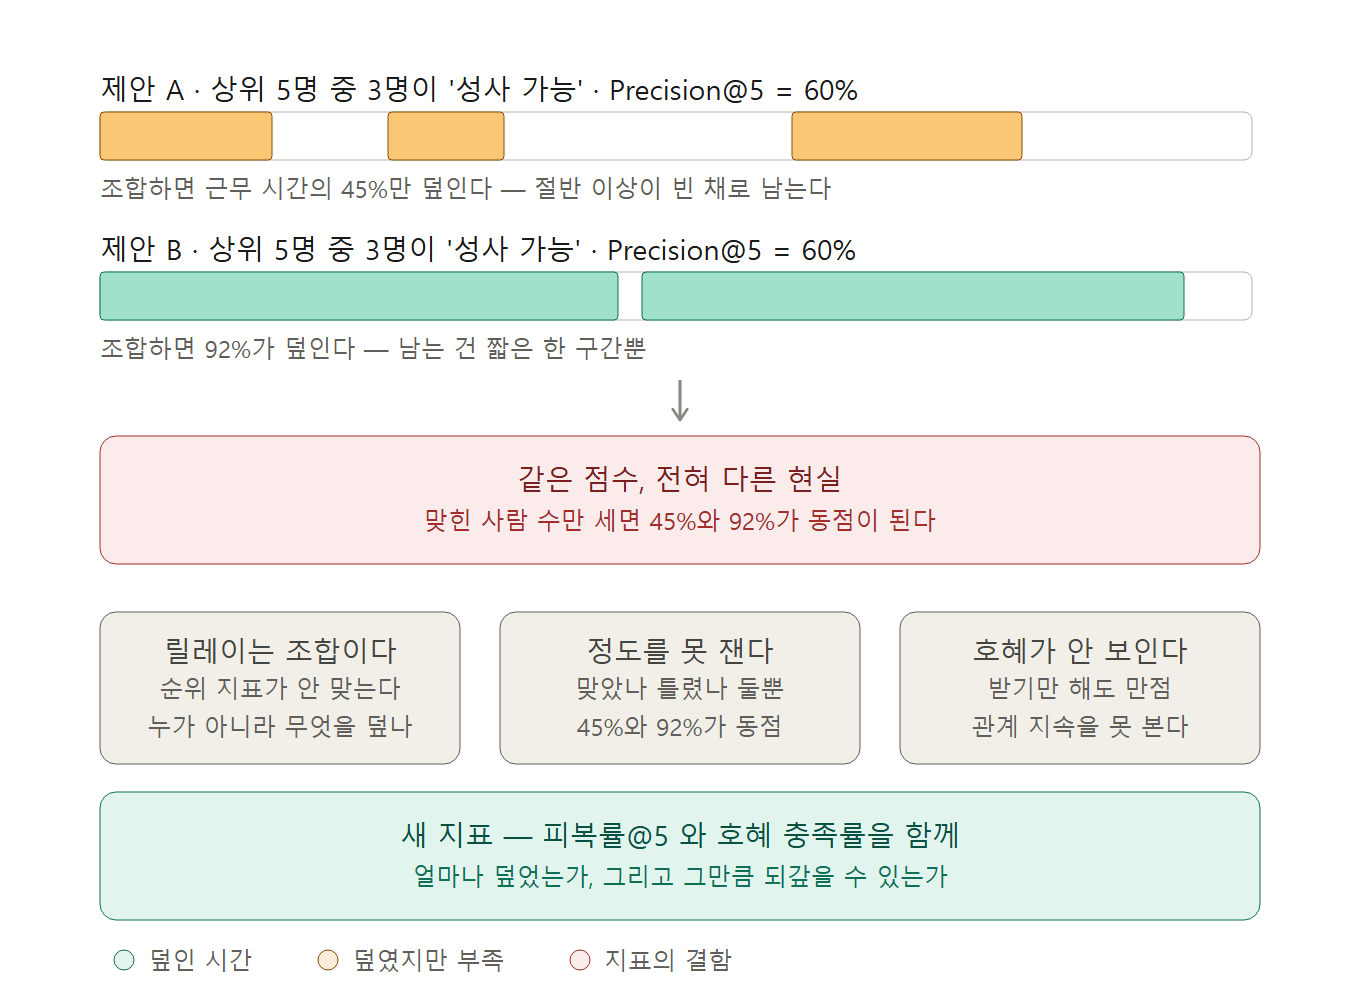
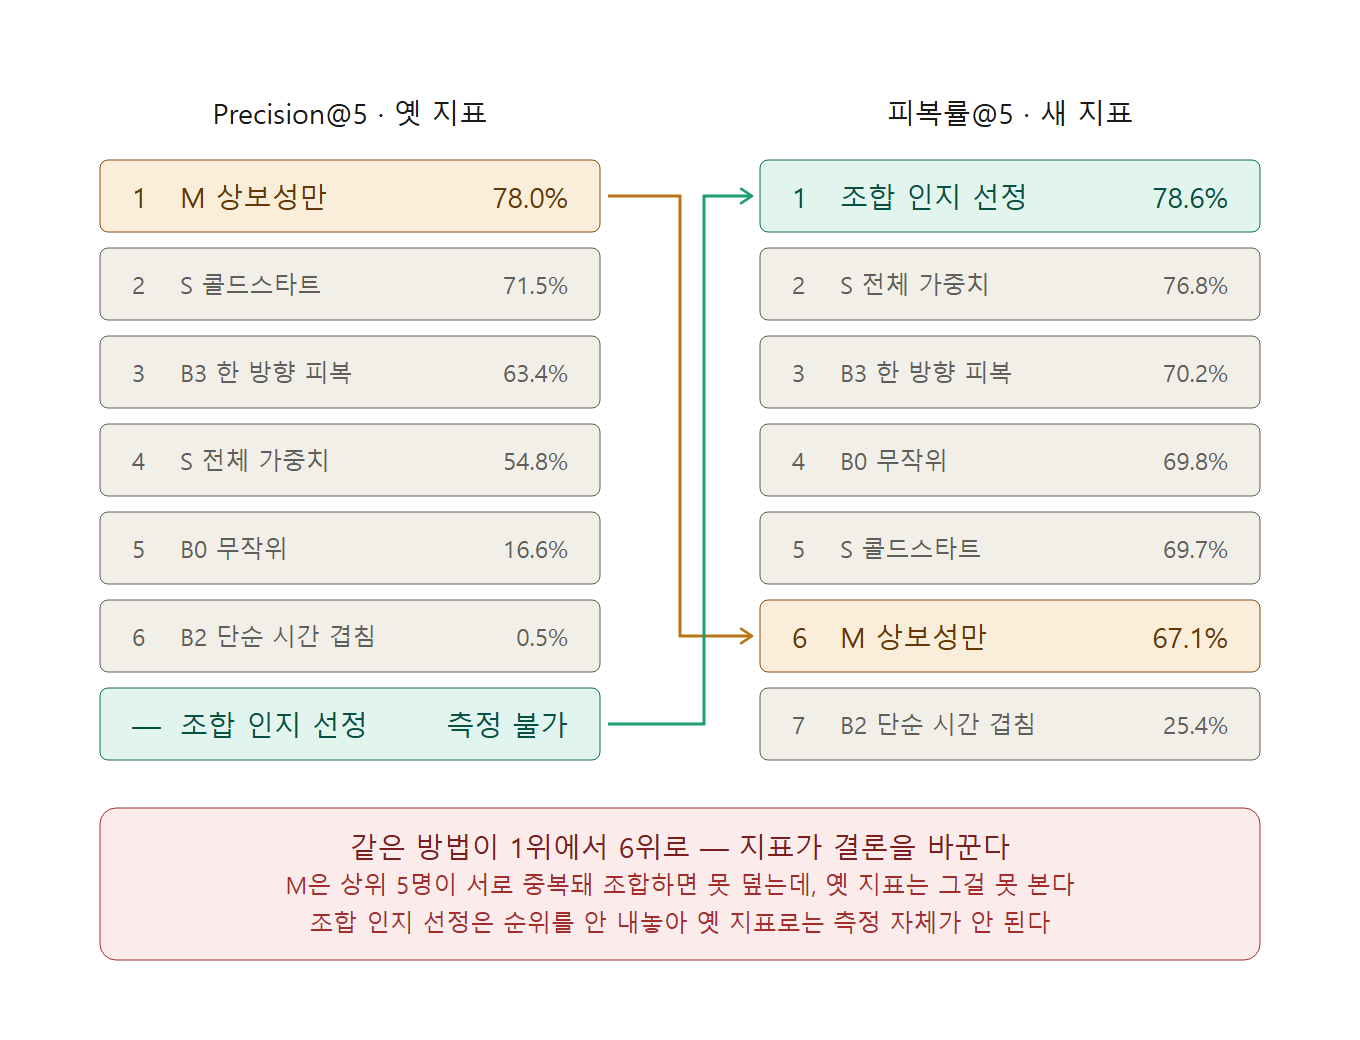
fix: 위젯 05를 실측값 기반 순위 역전으로 교체
앞선 05는 45%/92%라는 지어낸 예시라 수치가 실측이 아니었다.
같은 이야기를 실제 측정값으로 할 수 있다 - 두 지표에서 순위가
실제로 뒤집힌다.

M 상보성만: Precision@5 78.0%로 1위 -> 피복률@5 67.1%로 6위.
조합 인지 선정: 옛 지표로는 측정 불가 -> 새 지표로 78.6% 1위.

순위 역전 두 건을 화살표로 연결했다. 지표 선택이 결론을 바꾼다는 것을
지어낸 예시가 아니라 우리 실험 결과로 보인다.

diff --git a/scripts/build_widgets.py b/scripts/build_widgets.py
@@ -252,44 +252,60 @@ def widget_density() -> tuple[str, int, str]:
     return "".join(b), 518, "임계 밀도 곡선과 지역별 필요 모집 비율"
 
 
-# ── 위젯 5 · 지표를 왜 바꿨나 ────────────────────────────────────────────
+# ── 위젯 5 · 지표를 바꾸자 순위가 뒤집혔다 (실측) ───────────────────────
+OLD_RANK = [
+    ("1", "M 상보성만", "78.0%", "amber"),
+    ("2", "S 콜드스타트", "71.5%", "gray"),
+    ("3", "B3 한 방향 피복", "63.4%", "gray"),
+    ("4", "S 전체 가중치", "54.8%", "gray"),
+    ("5", "B0 무작위", "16.6%", "gray"),
+    ("6", "B2 단순 시간 겹침", "0.5%", "gray"),
+    ("—", "조합 인지 선정", "측정 불가", "teal"),
+]
+NEW_RANK = [
+    ("1", "조합 인지 선정", "78.6%", "teal"),
+    ("2", "S 전체 가중치", "76.8%", "gray"),
+    ("3", "B3 한 방향 피복", "70.2%", "gray"),
+    ("4", "B0 무작위", "69.8%", "gray"),
+    ("5", "S 콜드스타트", "69.7%", "gray"),
+    ("6", "M 상보성만", "67.1%", "amber"),
+    ("7", "B2 단순 시간 겹침", "25.4%", "gray"),
+]
+
+
+def _rank_row(x: int, y: int, rank: str, name: str, val: str, ramp: str) -> str:
+    cls = "th" if ramp != "gray" else "ts"
+    cy = y + 18
+    return (f'<g class="c-{ramp}"><rect x="{x}" y="{y}" width="250" height="36" rx="4" '
+            f'stroke-width="0.5"/>'
+            f'<text class="{cls}" x="{x + 16}" y="{cy}" dominant-baseline="central">{rank}</text>'
+            f'<text class="{cls}" x="{x + 40}" y="{cy}" dominant-baseline="central">{name}</text>'
+            f'<text class="{cls}" x="{x + 234}" y="{cy}" text-anchor="end" '
+            f'dominant-baseline="central">{val}</text></g>')
+
+
 def widget_metric_change() -> tuple[str, int, str]:
-    def seg(y, x, w, ramp):
-        return (f'<rect class="seg c-{ramp}" x="{x}" y="{y}" width="{w}" height="24" '
-                f'rx="2" stroke-width="0.5"/>')
-
     b = [
-        label(50, 44, "제안 A · 상위 5명 중 3명이 &#39;성사 가능&#39; · Precision@5 = 60%"),
-        '<rect class="box" x="50" y="56" width="576" height="24" rx="4" stroke-width="0.5"/>',
-        seg(56, 50, 86, "amber"), seg(56, 194, 58, "amber"), seg(56, 396, 115, "amber"),
-        '<text class="ts" x="50" y="94" dominant-baseline="central">'
-        '조합하면 근무 시간의 45%만 덮인다 — 절반 이상이 빈 채로 남는다</text>',
-
-        label(50, 124, "제안 B · 상위 5명 중 3명이 &#39;성사 가능&#39; · Precision@5 = 60%"),
-        '<rect class="box" x="50" y="136" width="576" height="24" rx="4" stroke-width="0.5"/>',
-        seg(136, 50, 259, "teal"), seg(136, 321, 271, "teal"),
-        '<text class="ts" x="50" y="174" dominant-baseline="central">'
-        '조합하면 92%가 덮인다 — 남는 건 짧은 한 구간뿐</text>',
-
-        down(340, 190, 210),
-        box(50, 218, 580, 64, "red", [
-            "같은 점수, 전혀 다른 현실",
-            "맞힌 사람 수만 세면 45%와 92%가 동점이 된다",
-        ]),
-        box(50, 306, 180, 76, "gray", [
-            "릴레이는 조합이다", "순위 지표가 안 맞는다", "누가 아니라 무엇을 덮나"]),
-        box(250, 306, 180, 76, "gray", [
-            "정도를 못 잰다", "맞았나 틀렸나 둘뿐", "45%와 92%가 동점"]),
-        box(450, 306, 180, 76, "gray", [
-            "호혜가 안 보인다", "받기만 해도 만점", "관계 지속을 못 본다"]),
-        box(50, 396, 580, 64, "teal", [
-            "새 지표 — 피복률@5 와 호혜 충족률을 함께",
-            "얼마나 덮었는가, 그리고 그만큼 되갚을 수 있는가"]),
-        legend(480, [
-            (62, "teal", "덮인 시간"), (164, "amber", "덮였지만 부족"),
-            (290, "red", "지표의 결함")]),
+        '<text class="th" x="175" y="56" text-anchor="middle" '
+        'dominant-baseline="central">Precision@5 · 옛 지표</text>',
+        '<text class="th" x="505" y="56" text-anchor="middle" '
+        'dominant-baseline="central">피복률@5 · 새 지표</text>',
     ]
-    return "".join(b), 502, "Precision@5를 피복률@5로 바꾼 이유"
+    for i, row in enumerate(OLD_RANK):
+        b.append(_rank_row(50, 80 + i * 44, *row))
+    for i, row in enumerate(NEW_RANK):
+        b.append(_rank_row(380, 80 + i * 44, *row))
+
+    b.append('<path d="M304 98 L340 98 L340 318 L376 318" fill="none" stroke="#BA7517" '
+             'stroke-width="1.5" marker-end="url(#arrow)"/>')
+    b.append('<path d="M304 362 L352 362 L352 98 L376 98" fill="none" stroke="#1D9E75" '
+             'stroke-width="1.5" marker-end="url(#arrow)"/>')
+    b.append(box(50, 404, 580, 76, "red", [
+        "같은 방법이 1위에서 6위로 — 지표가 결론을 바꾼다",
+        "M은 상위 5명이 서로 중복돼 조합하면 못 덮는데, 옛 지표는 그걸 못 본다",
+        "조합 인지 선정은 순위를 안 내놓아 옛 지표로는 측정 자체가 안 된다",
+    ]))
+    return "".join(b), 520, "지표를 바꾸자 순위가 뒤집혔다 — 실측값 비교"
 
 # ── 위젯 6 · 피복률@5 대 호혜 충족률 ─────────────────────────────────────
 TWO_AXIS = [
